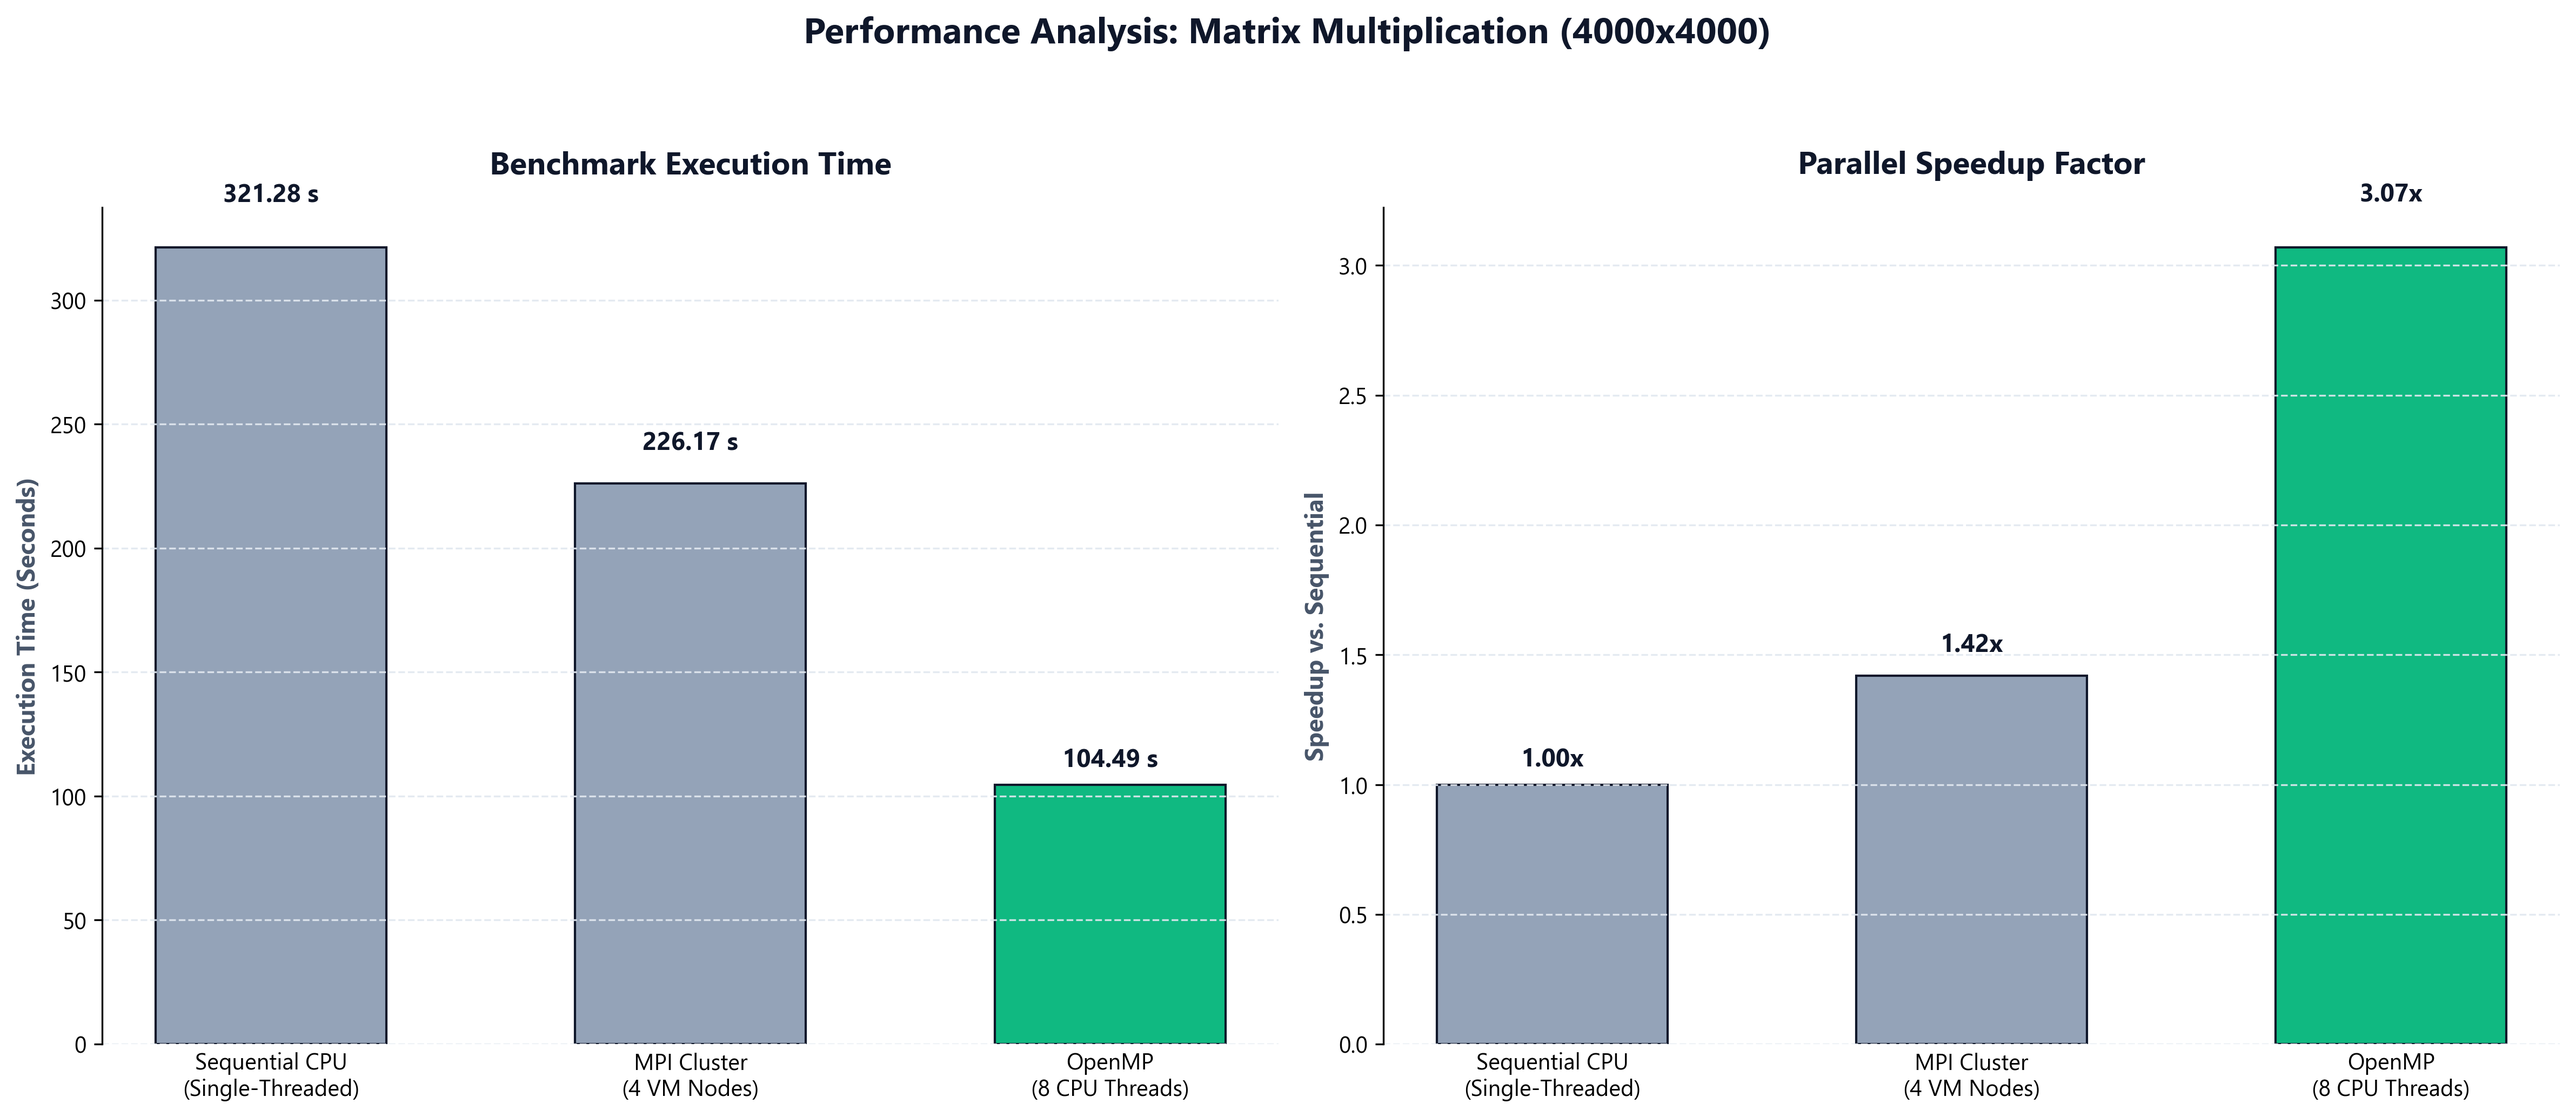
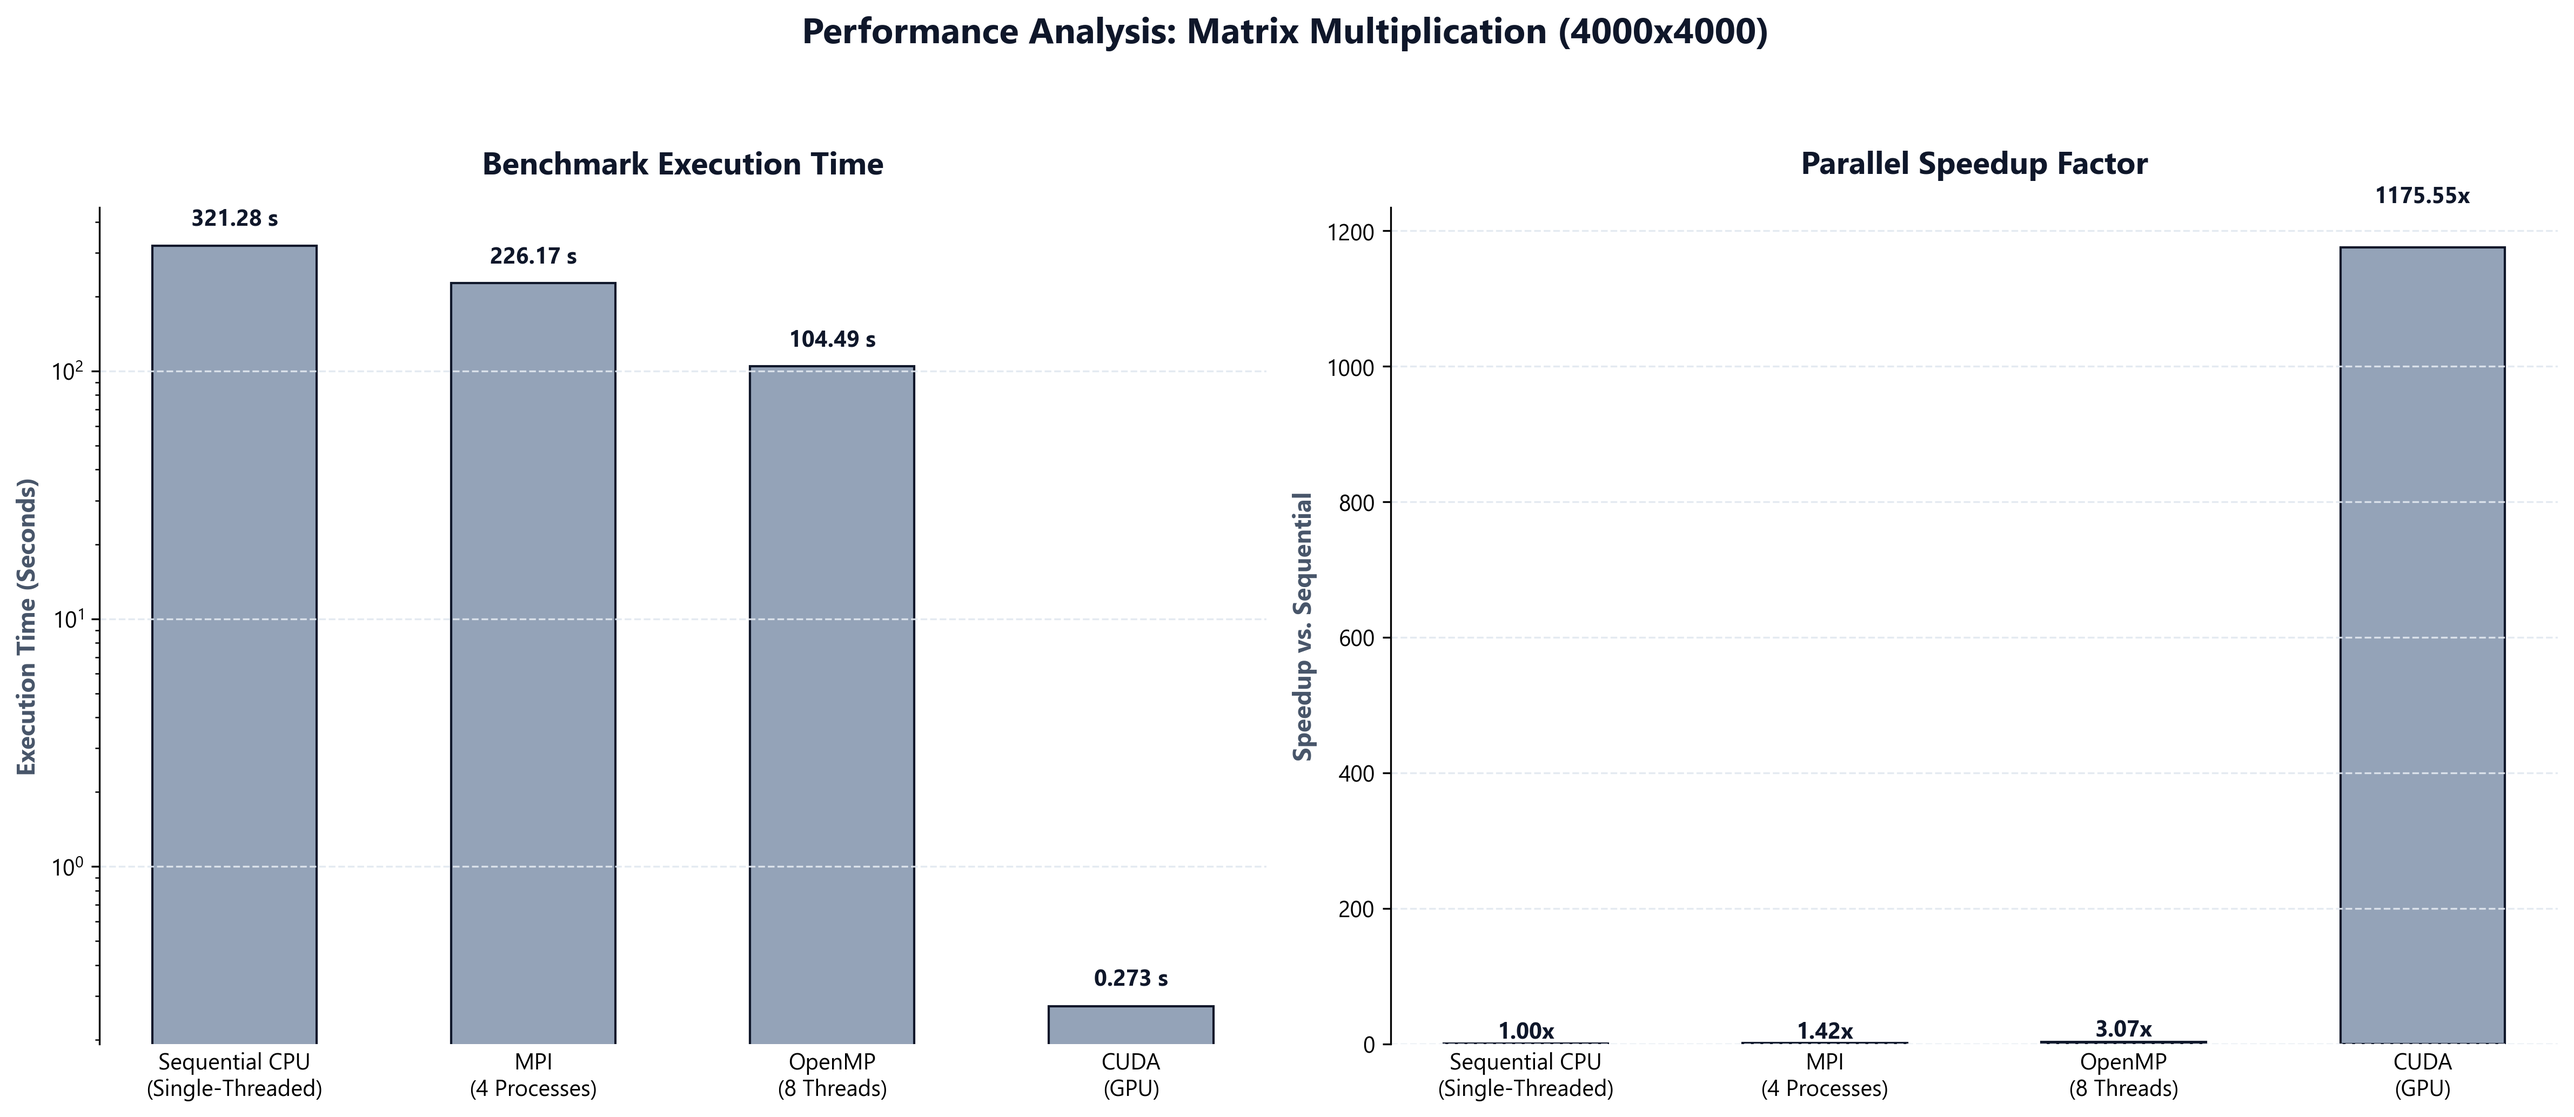
Update performance comparison with CUDA

diff --git a/scripts/chart.py b/scripts/chart.py
@@ -1,27 +1,76 @@
 import os
 import matplotlib.pyplot as plt
-import numpy as np
 
-os.makedirs('images', exist_ok=True)
+# Output directories
+os.makedirs('results/mpi/performance', exist_ok=True)
+os.makedirs('results/sequential/performance', exist_ok=True)
 
 plt.rcParams['font.family'] = 'sans-serif'
 plt.rcParams['font.sans-serif'] = ['Segoe UI', 'Arial']
 
-models = ['Sequential CPU\n(Single-Threaded)', 'MPI Cluster\n(4 VM Nodes)', 'OpenMP\n(8 CPU Threads)']
-times = [321.28, 226.17, 104.49]
-speedups = [1.0, 1.42, 3.07]
+# Benchmark results
+models = [
+    'Sequential CPU\n(Single-Threaded)',
+    'MPI\n(4 Processes)',
+    'OpenMP\n(8 Threads)',
+    'CUDA\n(GPU)'
+]
 
-# OpenMP is the fastest, so we highlight it in green.
-colors = ['#94A3B8', '#94A3B8', '#10B981']
+times = [
+    321.28,
+    226.17,
+    104.49,
+    0.273303
+]
+
+# Speedup relative to Sequential CPU
+baseline = times[0]
+speedups = [baseline / time for time in times]
+
+# Neutral colors for all implementations
+colors = ['#94A3B8', '#94A3B8', '#94A3B8', '#94A3B8']
+
 
 # 1. Combined Performance Chart
-fig, (ax1, ax2) = plt.subplots(1, 2, figsize=(16, 6.5), facecolor='#FFFFFF')
+fig, (ax1, ax2) = plt.subplots(
+    1, 2,
+    figsize=(16, 6.5),
+    facecolor='#FFFFFF'
+)
 
-bars1 = ax1.bar(models, times, color=colors, width=0.55, edgecolor='#0F172A', linewidth=1)
+bars1 = ax1.bar(
+    models,
+    times,
+    color=colors,
+    width=0.55,
+    edgecolor='#0F172A',
+    linewidth=1
+)
 
-ax1.set_title('Benchmark Execution Time', fontsize=14, fontweight='bold', color='#0F172A', pad=15)
-ax1.set_ylabel('Execution Time (Seconds)', fontsize=11, fontweight='bold', color='#475569')
-ax1.grid(True, axis='y', linestyle='--', color='#E2E8F0', alpha=0.9)
+ax1.set_title(
+    'Benchmark Execution Time',
+    fontsize=14,
+    fontweight='bold',
+    color='#0F172A',
+    pad=15
+)
+
+ax1.set_ylabel(
+    'Execution Time (Seconds)',
+    fontsize=11,
+    fontweight='bold',
+    color='#475569'
+)
+
+ax1.set_yscale('log')
+ax1.grid(
+    True,
+    axis='y',
+    linestyle='--',
+    color='#E2E8F0',
+    alpha=0.9
+)
+
 ax1.spines['top'].set_visible(False)
 ax1.spines['right'].set_visible(False)
 ax1.spines['bottom'].set_visible(False)
@@ -29,15 +78,52 @@ ax1.tick_params(axis='x', length=0)
 
 for bar, time in zip(bars1, times):
     height = bar.get_height()
-    label = f'{time:.2f} s'
-    ax1.text(bar.get_x() + bar.get_width()/2.0, height * 1.05, label, 
-             ha='center', va='bottom', fontsize=11, fontweight='bold', color='#0F172A')
+    label = f'{time:.3f} s' if time < 1 else f'{time:.2f} s'
 
-bars2 = ax2.bar(models, speedups, color=colors, width=0.55, edgecolor='#0F172A', linewidth=1)
+    ax1.text(
+        bar.get_x() + bar.get_width() / 2.0,
+        height * 1.15,
+        label,
+        ha='center',
+        va='bottom',
+        fontsize=10,
+        fontweight='bold',
+        color='#0F172A'
+    )
 
-ax2.set_title('Parallel Speedup Factor', fontsize=14, fontweight='bold', color='#0F172A', pad=15)
-ax2.set_ylabel('Speedup vs. Sequential', fontsize=11, fontweight='bold', color='#475569')
-ax2.grid(True, axis='y', linestyle='--', color='#E2E8F0', alpha=0.9)
+
+bars2 = ax2.bar(
+    models,
+    speedups,
+    color=colors,
+    width=0.55,
+    edgecolor='#0F172A',
+    linewidth=1
+)
+
+ax2.set_title(
+    'Parallel Speedup Factor',
+    fontsize=14,
+    fontweight='bold',
+    color='#0F172A',
+    pad=15
+)
+
+ax2.set_ylabel(
+    'Speedup vs. Sequential',
+    fontsize=11,
+    fontweight='bold',
+    color='#475569'
+)
+
+ax2.grid(
+    True,
+    axis='y',
+    linestyle='--',
+    color='#E2E8F0',
+    alpha=0.9
+)
+
 ax2.spines['top'].set_visible(False)
 ax2.spines['right'].set_visible(False)
 ax2.spines['bottom'].set_visible(False)
@@ -45,22 +131,78 @@ ax2.tick_params(axis='x', length=0)
 
 for bar, speedup in zip(bars2, speedups):
     height = bar.get_height()
-    label = f'{speedup:.2f}x'
-    ax2.text(bar.get_x() + bar.get_width()/2.0, height * 1.05, label, 
-             ha='center', va='bottom', fontsize=11, fontweight='bold', color='#0F172A')
 
-plt.suptitle('Performance Analysis: Matrix Multiplication (4000x4000)', fontsize=16, fontweight='bold', color='#0F172A', y=1.05)
+    ax2.text(
+        bar.get_x() + bar.get_width() / 2.0,
+        height * 1.05,
+        f'{speedup:.2f}x',
+        ha='center',
+        va='bottom',
+        fontsize=10,
+        fontweight='bold',
+        color='#0F172A'
+    )
+
+plt.suptitle(
+    'Performance Analysis: Matrix Multiplication (4000x4000)',
+    fontsize=16,
+    fontweight='bold',
+    color='#0F172A',
+    y=1.05
+)
+
 plt.tight_layout()
-plt.savefig('images/performance_comparison_charts.png', dpi=300, bbox_inches='tight', facecolor='#FFFFFF')
+
+plt.savefig(
+    'results/mpi/performance/performance_comparison_charts.png',
+    dpi=300,
+    bbox_inches='tight',
+    facecolor='#FFFFFF'
+)
+
 plt.close()
 
-# 2. Standalone Execution Time Chart
-fig, ax = plt.subplots(figsize=(10, 5), facecolor='#FFFFFF')
-bars = ax.bar(models, times, color=colors, width=0.55, edgecolor='#0F172A', linewidth=1)
 
-ax.set_title('Matrix Multiplication (4000x4000) Execution Time Comparison', fontsize=14, fontweight='bold', color='#0F172A', pad=15)
-ax.set_ylabel('Execution Time (Seconds)', fontsize=11, fontweight='bold', color='#475569')
-ax.grid(True, axis='y', linestyle='--', color='#E2E8F0', alpha=0.9)
+# 2. Standalone Execution Time Chart
+fig, ax = plt.subplots(
+    figsize=(10, 5),
+    facecolor='#FFFFFF'
+)
+
+bars = ax.bar(
+    models,
+    times,
+    color=colors,
+    width=0.55,
+    edgecolor='#0F172A',
+    linewidth=1
+)
+
+ax.set_title(
+    'Matrix Multiplication (4000x4000) Execution Time Comparison',
+    fontsize=14,
+    fontweight='bold',
+    color='#0F172A',
+    pad=15
+)
+
+ax.set_ylabel(
+    'Execution Time (Seconds)',
+    fontsize=11,
+    fontweight='bold',
+    color='#475569'
+)
+
+ax.set_yscale('log')
+
+ax.grid(
+    True,
+    axis='y',
+    linestyle='--',
+    color='#E2E8F0',
+    alpha=0.9
+)
+
 ax.spines['top'].set_visible(False)
 ax.spines['right'].set_visible(False)
 ax.spines['bottom'].set_visible(False)
@@ -68,21 +210,69 @@ ax.tick_params(axis='x', length=0)
 
 for bar, time in zip(bars, times):
     height = bar.get_height()
-    label = f'{time:.2f} s'
-    ax.text(bar.get_x() + bar.get_width()/2.0, height * 1.05, label, 
-            ha='center', va='bottom', fontsize=11, fontweight='bold', color='#0F172A')
+    label = f'{time:.3f} s' if time < 1 else f'{time:.2f} s'
+
+    ax.text(
+        bar.get_x() + bar.get_width() / 2.0,
+        height * 1.15,
+        label,
+        ha='center',
+        va='bottom',
+        fontsize=10,
+        fontweight='bold',
+        color='#0F172A'
+    )
 
 plt.tight_layout()
-plt.savefig('images/execution_time_chart.png', dpi=300, bbox_inches='tight', facecolor='#FFFFFF')
+
+plt.savefig(
+    'results/sequential/performance/execution_time_chart.png',
+    dpi=300,
+    bbox_inches='tight',
+    facecolor='#FFFFFF'
+)
+
 plt.close()
 
-# 3. Standalone Speedup Chart
-fig, ax = plt.subplots(figsize=(10, 5), facecolor='#FFFFFF')
-bars = ax.bar(models, speedups, color=colors, width=0.55, edgecolor='#0F172A', linewidth=1)
 
-ax.set_title('Parallel Speedup Factor relative to Sequential Baseline', fontsize=14, fontweight='bold', color='#0F172A', pad=15)
-ax.set_ylabel('Speedup Factor (x)', fontsize=11, fontweight='bold', color='#475569')
-ax.grid(True, axis='y', linestyle='--', color='#E2E8F0', alpha=0.9)
+# 3. Standalone Speedup Chart
+fig, ax = plt.subplots(
+    figsize=(10, 5),
+    facecolor='#FFFFFF'
+)
+
+bars = ax.bar(
+    models,
+    speedups,
+    color=colors,
+    width=0.55,
+    edgecolor='#0F172A',
+    linewidth=1
+)
+
+ax.set_title(
+    'Parallel Speedup Factor Relative to Sequential Baseline',
+    fontsize=14,
+    fontweight='bold',
+    color='#0F172A',
+    pad=15
+)
+
+ax.set_ylabel(
+    'Speedup Factor (x)',
+    fontsize=11,
+    fontweight='bold',
+    color='#475569'
+)
+
+ax.grid(
+    True,
+    axis='y',
+    linestyle='--',
+    color='#E2E8F0',
+    alpha=0.9
+)
+
 ax.spines['top'].set_visible(False)
 ax.spines['right'].set_visible(False)
 ax.spines['bottom'].set_visible(False)
@@ -90,10 +280,27 @@ ax.tick_params(axis='x', length=0)
 
 for bar, speedup in zip(bars, speedups):
     height = bar.get_height()
-    label = f'{speedup:.2f}x'
-    ax.text(bar.get_x() + bar.get_width()/2.0, height * 1.05, label, 
-            ha='center', va='bottom', fontsize=11, fontweight='bold', color='#0F172A')
+
+    ax.text(
+        bar.get_x() + bar.get_width() / 2.0,
+        height * 1.05,
+        f'{speedup:.2f}x',
+        ha='center',
+        va='bottom',
+        fontsize=10,
+        fontweight='bold',
+        color='#0F172A'
+    )
 
 plt.tight_layout()
-plt.savefig('images/speedup_chart.png', dpi=300, bbox_inches='tight', facecolor='#FFFFFF')
+
+plt.savefig(
+    'results/mpi/performance/speedup_chart.png',
+    dpi=300,
+    bbox_inches='tight',
+    facecolor='#FFFFFF'
+)
+
 plt.close()
+
+print('Performance charts generated successfully.')
